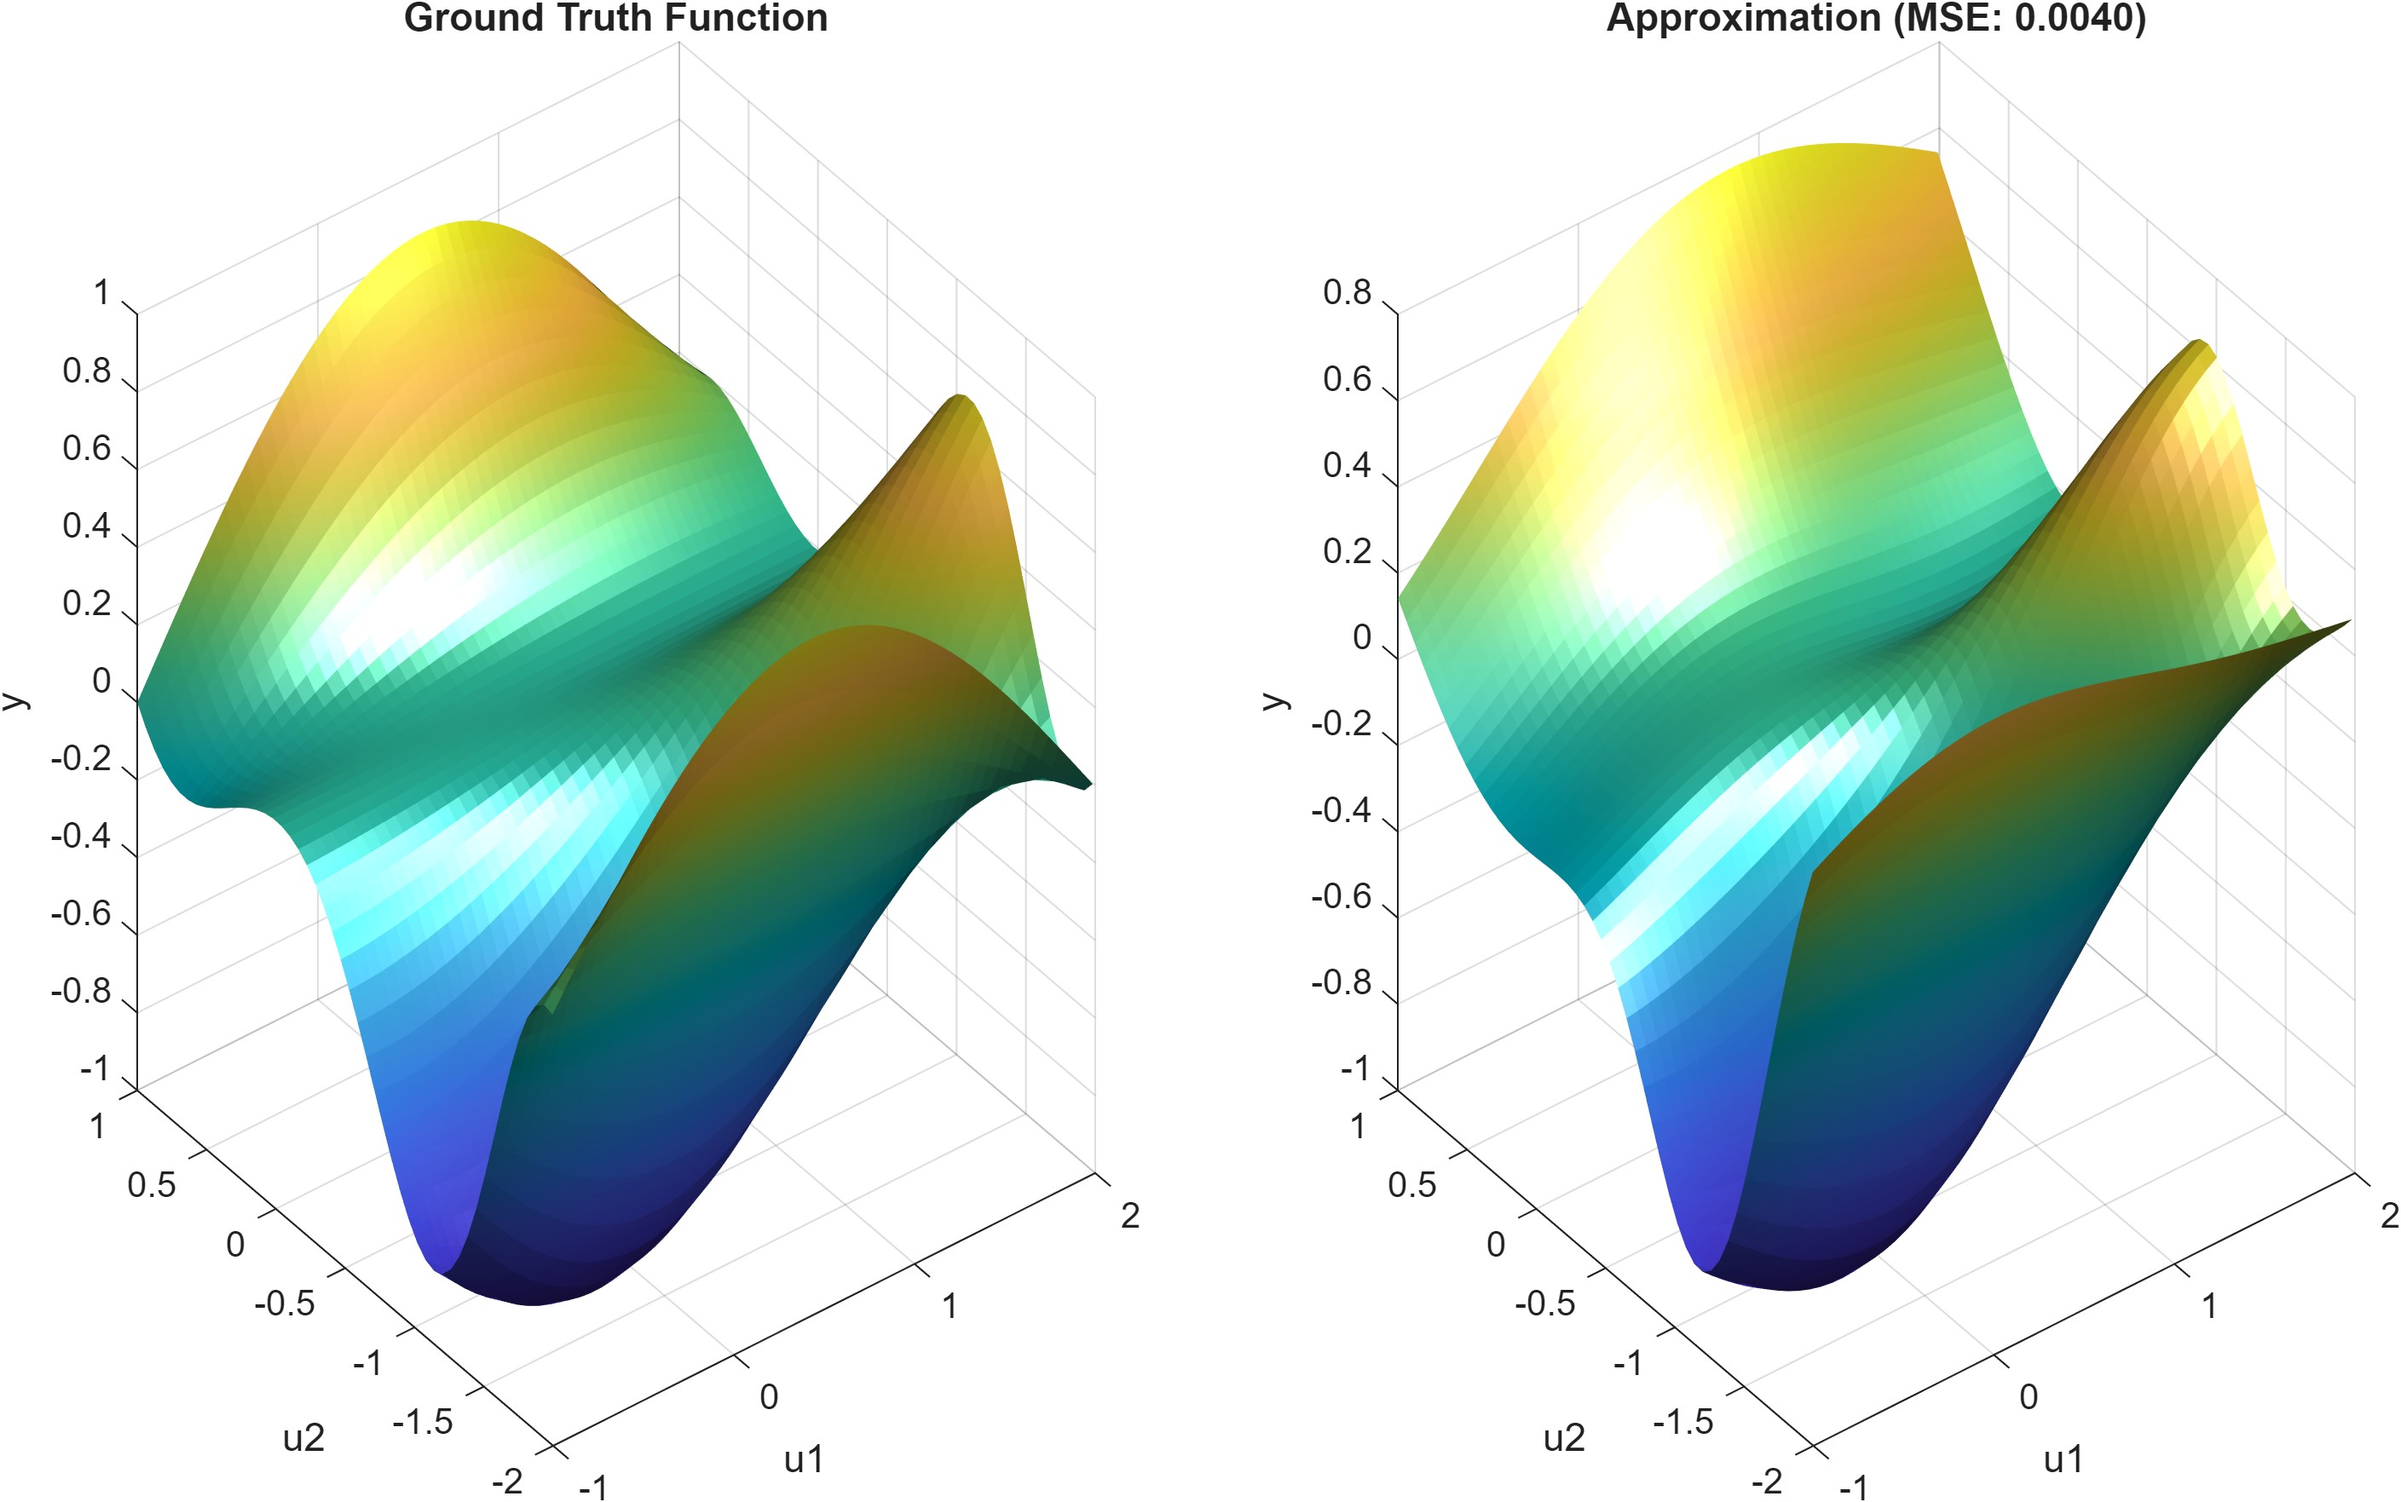
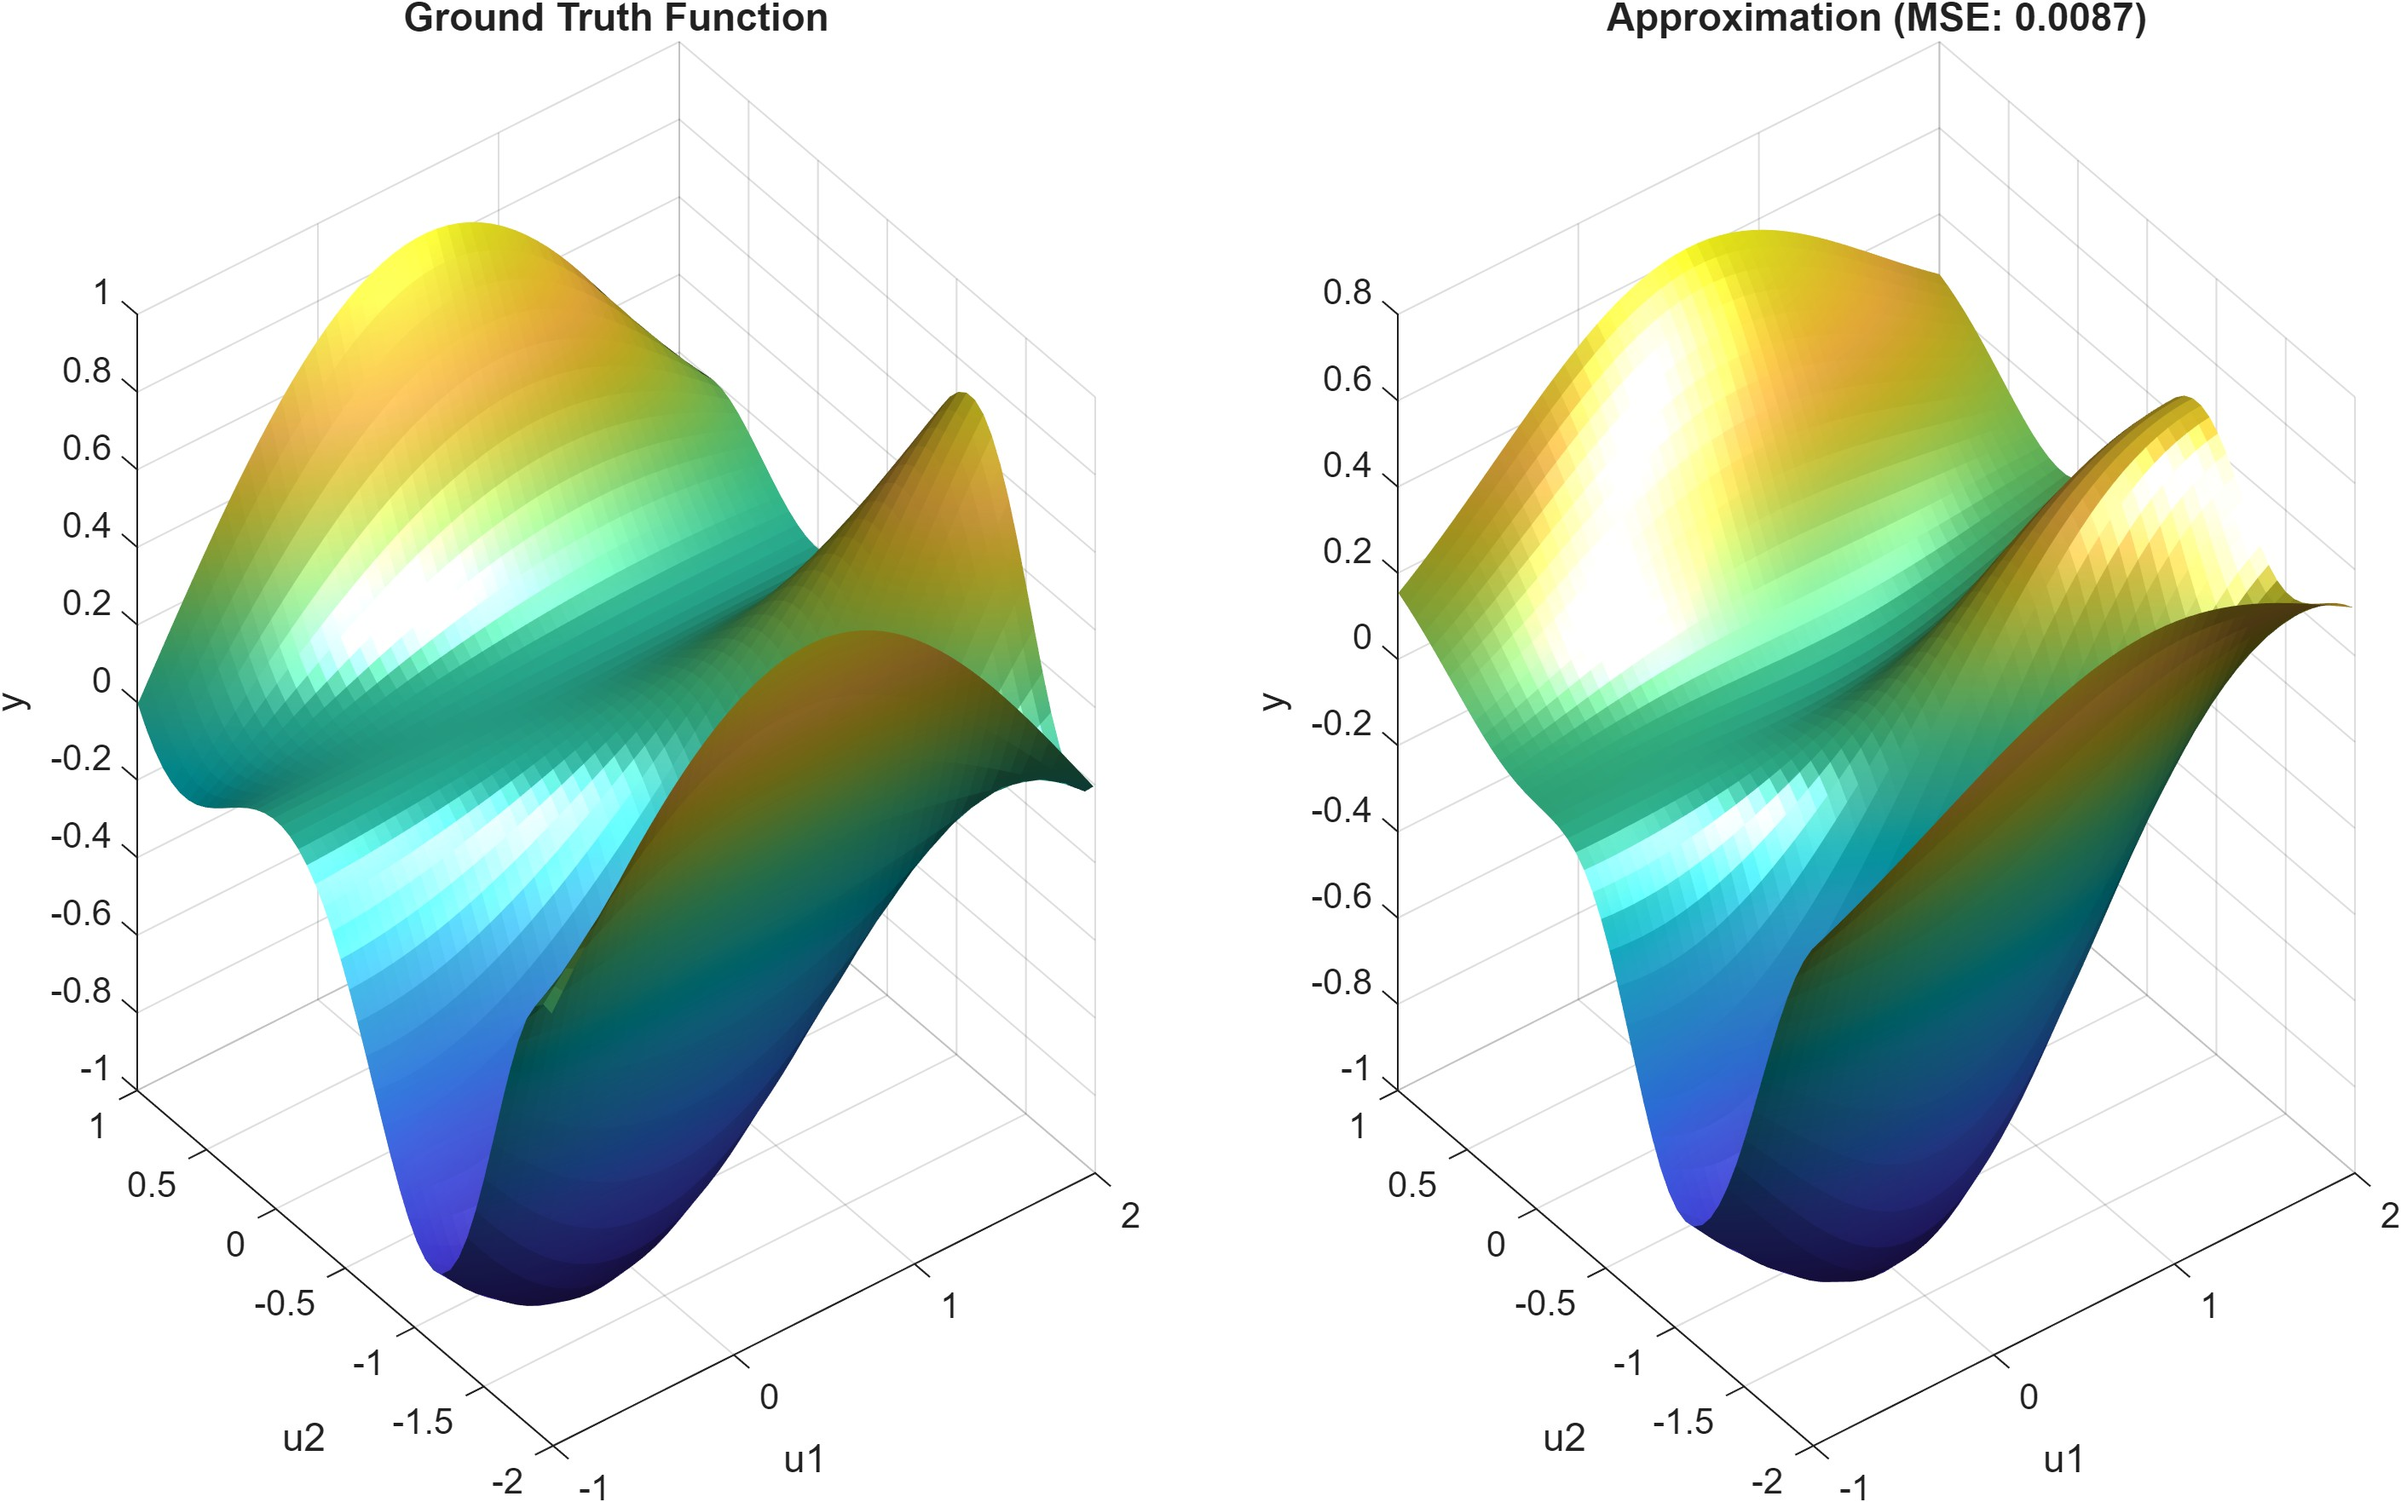
tune parameters

diff --git a/project/tune/tune_hyperparameters.m b/project/tune/tune_hyperparameters.m
@@ -1,0 +1,110 @@
+clear; clc; close all;
+
+thisDir = fileparts(mfilename('fullpath'));
+rootDir = fileparts(thisDir);
+
+addpath(rootDir);
+addpath(fullfile(rootDir, 'utils'));
+addpath(fullfile(rootDir, 'src'));
+addpath(fullfile(rootDir, 'src', 'helpers'));
+
+parameters;
+
+params.num_gaussians = 6; 
+params.max_generations = 1000; 
+
+crossover_grid = [0.6, 0.8, 0.9];     
+mutation_grid  = [0.01, 0.05, 0.10];  
+noise_grid     = [0.05, 0.10, 0.20];  
+
+fprintf('Generating fixed datasets...\n');
+[U_train, Y_train] = generate_data(params.num_samples);
+[U_val, Y_val]     = generate_data(params.num_samples);
+
+best_mse = inf;
+best_combo = [];
+results_log = []; 
+
+total_combinations = length(crossover_grid) * length(mutation_grid) * length(noise_grid);
+current_run = 0;
+
+fprintf('Starting Grid Search over %d combinations...\n', total_combinations);
+fprintf('----------------------------------------------------------------\n');
+fprintf('| %-5s | %-5s | %-5s | %-10s | %-10s |\n', 'Cross', 'Mut', 'Noise', 'Val MSE', 'Status');
+fprintf('----------------------------------------------------------------\n');
+
+timerTotal = tic;
+for c_rate = crossover_grid
+    for m_rate = mutation_grid
+        for m_noise = noise_grid
+            
+            current_run = current_run + 1;
+            
+            params.crossover_rate = c_rate;
+            params.mutation_rate  = m_rate;
+            params.mutation_noise = m_noise;
+            
+            pop = initialize_population(params);
+            [fitness_score, mse] = fitness(pop, U_train, Y_train, params);
+            
+            for gen = 1:params.max_generations
+                [~, best_idx] = max(fitness_score);
+                elite_ind = pop(best_idx, :);
+                
+                parents = selection(pop, fitness_score, params);
+                offspring = crossover(parents, params);
+                new_pop = mutation(offspring, params);
+                new_pop(1, :) = elite_ind; 
+                
+                [new_fit, new_mse] = fitness(new_pop, U_train, Y_train, params);
+                pop = new_pop;
+                fitness_score = new_fit;
+            end
+            
+            [~, best_idx] = max(fitness_score);
+            best_sol = pop(best_idx, :);
+            val_params = params; val_params.pop_size = 1;
+            [~, val_mse] = fitness(best_sol, U_val, Y_val, val_params);
+            
+            fprintf('| %5.2f | %5.2f | %5.2f | %10.5f |', c_rate, m_rate, m_noise, val_mse);
+            
+            if val_mse < best_mse
+                best_mse = val_mse;
+                best_combo = params;
+                fprintf('  <-- NEW BEST\n');
+            else
+                fprintf('\n');
+            end
+            
+            results_log = [results_log; c_rate, m_rate, m_noise, val_mse];
+        end
+    end
+end
+
+toc(timerTotal);
+
+fprintf('\nOPTIMIZATION COMPLETE\n');
+fprintf('Best Validation MSE: %.5f\n', best_mse);
+fprintf('   params.crossover_rate = %.2f;\n', best_combo.crossover_rate);
+fprintf('   params.mutation_rate  = %.2f;\n', best_combo.mutation_rate);
+fprintf('   params.mutation_noise = %.2f;\n', best_combo.mutation_noise);
+
+unique_c = unique(results_log(:,1));
+unique_m = unique(results_log(:,2));
+mse_matrix = zeros(length(unique_c), length(unique_m));
+
+for i = 1:length(unique_c)
+    for j = 1:length(unique_m)
+        mask = (results_log(:,1) == unique_c(i)) & (results_log(:,2) == unique_m(j));
+        mse_matrix(i,j) = mean(results_log(mask, 4));
+    end
+end
+
+figure;
+heatmap(unique_m, unique_c, mse_matrix, ...
+    'Colormap', parula, 'ColorLimits', [min(results_log(:,4)), median(results_log(:,4))]);
+xlabel('Mutation Rate');
+ylabel('Crossover Rate');
+title('Average MSE (Lower is Better)');
+
+save_figures();

diff --git a/project/tune/tune_parameters.m b/project/tune/tune_parameters.m
@@ -1,0 +1,77 @@
+clear; clc; close all;
+
+thisDir = fileparts(mfilename('fullpath'));
+rootDir = fileparts(thisDir);
+
+addpath(rootDir);
+addpath(fullfile(rootDir, 'utils'));
+addpath(fullfile(rootDir, 'src'));
+addpath(fullfile(rootDir, 'src', 'helpers'));
+
+parameters; 
+
+k_min = 2;              
+k_max = 12;             
+params.max_generations = 1000;
+
+fprintf('Generating fixed datasets for fair comparison...\n');
+[U_train, Y_train] = generate_data(params.num_samples);
+[U_val, Y_val]     = generate_data(params.num_samples);
+
+results = [];
+
+fprintf('Starting search for optimal K (Range: %d-%d)...\n', k_min, k_max);
+for k = k_min:k_max
+    
+    fprintf('\nTesting K = %d Gaussians... ', k);
+    params.num_gaussians = k;
+    
+    pop = initialize_population(params);
+    [fitness_score, mse] = fitness(pop, U_train, Y_train, params);
+    
+    for gen = 1:params.max_generations
+        [~, best_idx] = max(fitness_score);
+        elite_ind = pop(best_idx, :);
+        
+        parents = selection(pop, fitness_score, params);
+        offspring = crossover(parents, params);
+        new_pop = mutation(offspring, params);
+        new_pop(1, :) = elite_ind;
+        
+        [new_fit, new_mse] = fitness(new_pop, U_train, Y_train, params);
+        pop = new_pop;
+        fitness_score = new_fit;
+    end
+    
+    [~, best_idx] = max(fitness_score);
+    best_sol = pop(best_idx, :);
+    val_params = params; val_params.pop_size = 1;
+    [~, val_mse] = fitness(best_sol, U_val, Y_val, val_params);
+    
+    [~, active_count] = prune(best_sol, params);
+    
+    fprintf('Done. | Val MSE: %.5f | Active Terms: %d', val_mse, active_count);
+    results = [results; k, val_mse, active_count];
+end
+
+figure('Name', 'Optimization of K');
+
+yyaxis left
+plot(results(:,1), results(:,2), '-bo', 'LineWidth', 2, 'MarkerFaceColor', 'b');
+xlabel('Number of Gaussians (K)');
+ylabel('Validation MSE (Lower is Better)');
+title('Model Complexity Analysis: MSE vs. K');
+grid on;
+
+yyaxis right
+plot(results(:,1), results(:,3), '--rx', 'LineWidth', 1.5);
+ylabel('Active Terms after Pruning');
+ylim([0, k_max+1]);
+legend('Validation MSE', 'Active Terms');
+
+[min_mse, idx] = min(results(:,2));
+best_k = results(idx, 1);
+fprintf('\n\n--- RESULTS SUMMARY ---\n');
+fprintf('Minimum Error found at K = %d (MSE: %.5f)\n', best_k, min_mse);
+
+save_figures();

diff --git a/project/main.m b/project/main.m
@@ -1,8 +1,12 @@
 clear; clc; close all;
 
-addpath('src');
-addpath('src/helpers');
-addpath('utils');
+rootDir = fileparts(mfilename('fullpath'));
+
+addpath(rootDir);
+addpath(fullfile(rootDir, 'src'));
+addpath(fullfile(rootDir, 'src', 'helpers'));
+addpath(fullfile(rootDir, 'utils'));
+
 parameters;
 
 start_logging();
@@ -119,7 +123,7 @@ end
 fprintf('\nOriginal Gaussians: %d | MSE: %.5f\n', params.num_gaussians, val_mse);
 fprintf('Active Gaussians:   %d | MSE: %.5f\n', active_gaussians, simple_mse);
 
-if simple_mse < 1.1*val_mse
+if simple_mse < 2*val_mse
     fprintf('>> SUCCESS: Model simplified significantly with minimal accuracy loss.\n');
 else
     fprintf('>> WARNING: Pruning hurt accuracy too much.\n');

diff --git a/project/parameters.m b/project/parameters.m
@@ -4,14 +4,14 @@ params.num_samples = 1000;
 params.c1_range = [-1, 2];
 params.c2_range = [-2, 1];
 params.w_range = [-10, 10];
-params.sigma_range = [0.1, 3.0]; 
+params.sigma_range = [0.2, 2.0]; 
 
 % Hyperparameters
 params.pop_size = 100;          
-params.num_gaussians = 15;
+params.num_gaussians = 6;
 params.max_generations = 3000;
 
-params.crossover_rate = 0.8;
-params.mutation_rate = 0.05;
-params.mutation_noise = 0.1;
-params.pruning_threshold = 0.1;
+params.crossover_rate = 0.6;
+params.mutation_rate = 0.1;
+params.mutation_noise = 0.05;
+params.pruning_threshold = 0.6;

diff --git a/project/utils/start_logging.m b/project/utils/start_logging.m
@@ -10,6 +10,9 @@ function start_logging()
     
     logFile = fullfile(outputDir, 'results.txt');
 
+    fid = fopen(logFile, 'w');
+    fclose(fid);
+
     diary off
     diary(logFile)
 
